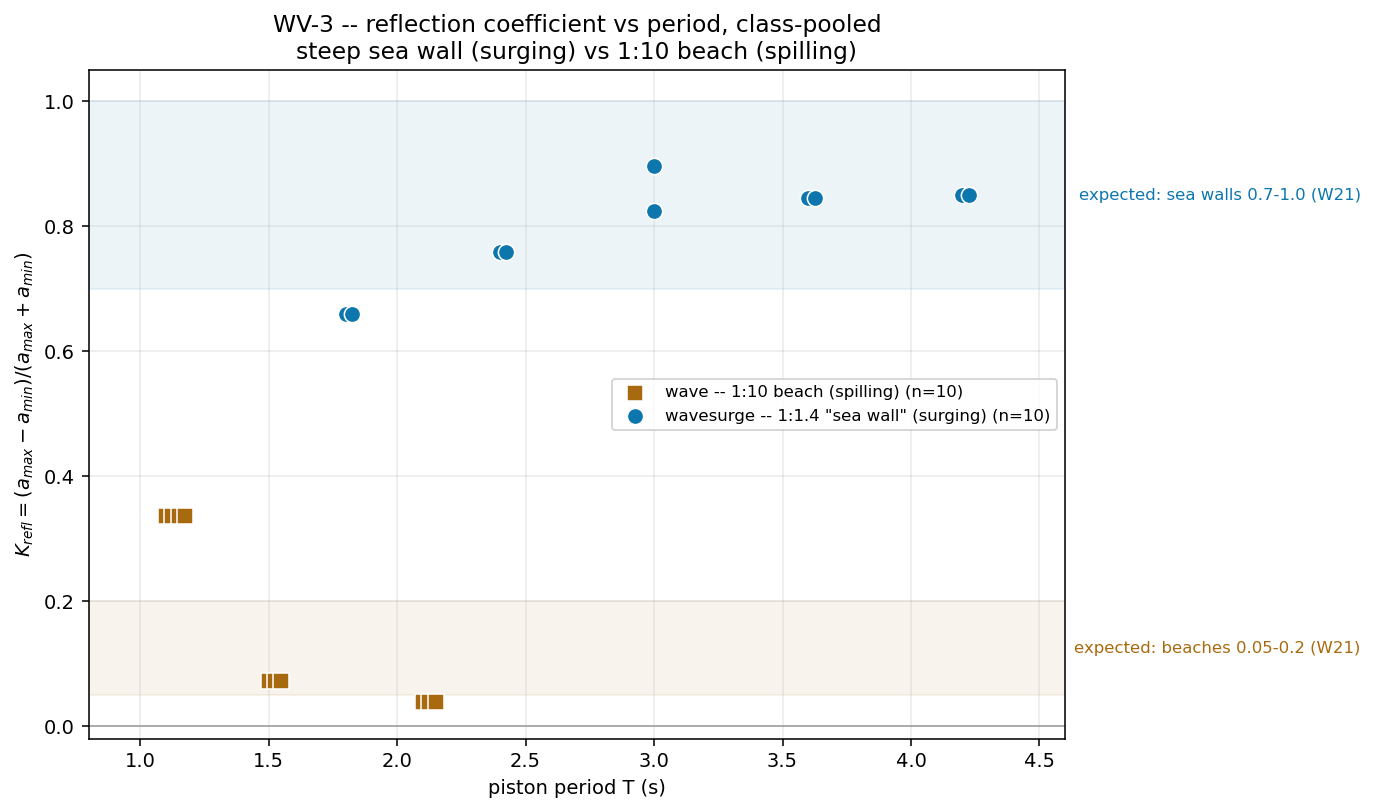
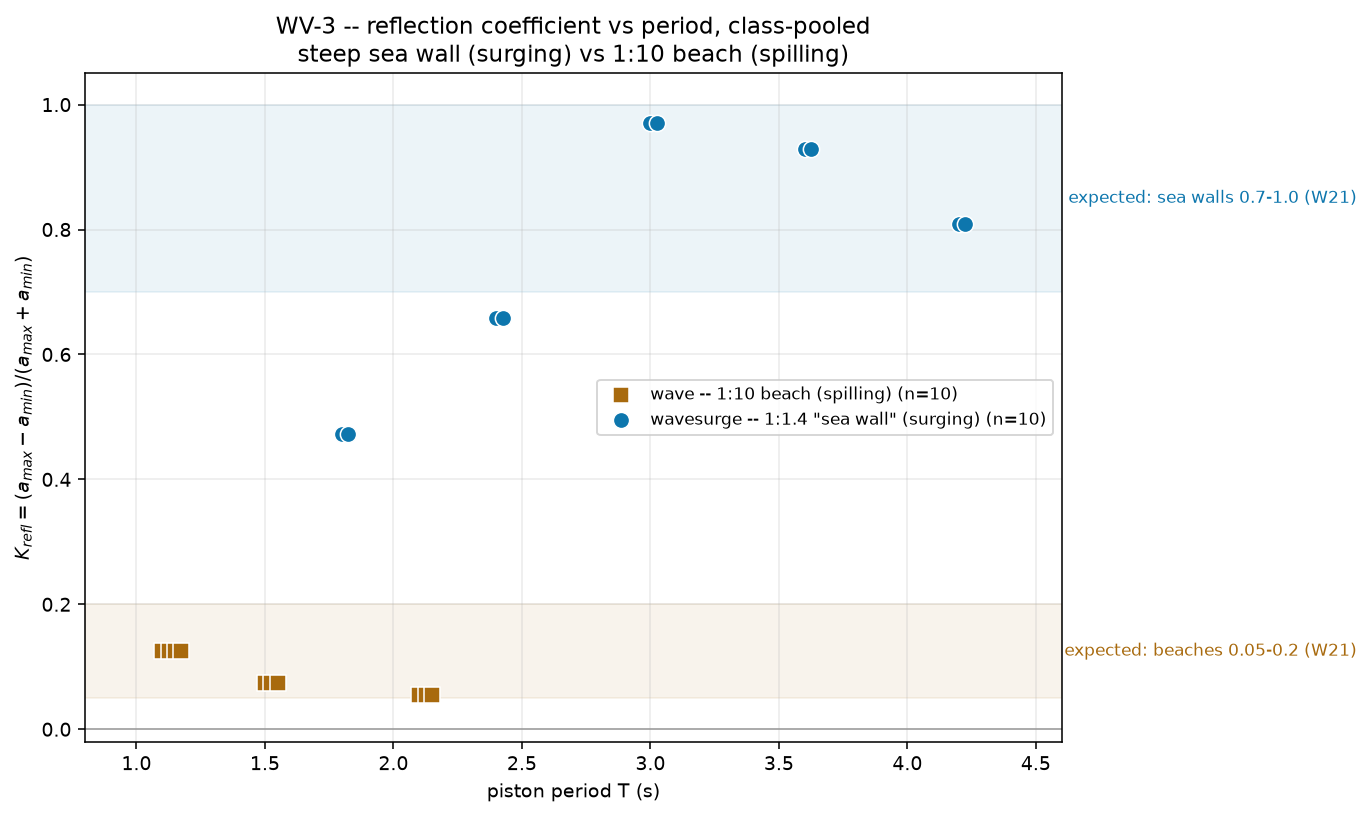
WV-3: re-measured with the closure off in the wave flumes (#2)
K_refl on wavesurge (DFT envelope scan) is now 0.47 / 0.66 / 0.97 / 0.93 /
0.81 at T = 1.8 / 2.4 / 3.0 / 3.6 / 4.2 s, against 0.66-0.90 with the
closure on. The nodes are deeper at 3.0 and 3.6 s; the 1.8 s row is
ragged. The contrast holds: every wavesurge K is above every wave K
(0.05-0.13). Node spacing matches L/2 to within the 0.2 m station step at
3.0-4.2 s. The closure-on rerun reproduces the old scan at 3.0 s (0.87).
CSV and pooled plot regenerated; the digit table is unchanged.

diff --git a/courses/original/exercises/WV-3-reflection/README.md b/courses/original/exercises/WV-3-reflection/README.md
@@ -3,7 +3,8 @@
 Every student slides one wave gauge along a flume that ends in a steep, smooth
 1:1.4 slope, reading the biggest (antinode) and smallest (node) swing the
 reflected wave leaves behind in its partial standing pattern. `K_refl` from
-those two numbers lands high — measured 0.66–0.90 across the class's periods —
+those two numbers lands high — measured 0.47–0.97 across the class's periods,
+most of them 0.8–0.97 —
 and that IS the textbook sea-wall figure, measured rather than assumed. A short
 second run on the gentle 1:10 beach, same water and same paddle, gives a low
 one by exactly the same method: the class has measured, not been told, why
@@ -64,6 +65,19 @@ as `series = spilling`. Its flat run is only x = 0.65–1.15 m, so step the gaug
 by 0.1 m across that — and the swing barely changing from one end to the other
 IS the result.
 
+> Re-measured Oct 2026 with the mixing-length closure off in the wave flumes
+> (mvreeuwijk/hydraulician#2). `K_refl` on `wavesurge` (DFT envelope scan, 33
+> stations, 10 periods) went 0.66 / 0.76 / 0.83–0.90 / 0.85 / 0.85 to
+> 0.47 / 0.66 / 0.97 / 0.93 / 0.81 at T = 1.8 / 2.4 / 3.0 / 3.6 / 4.2 s: the
+> nodes are deeper without eddy damping at 3.0 and 3.6 s, the 1.8 s row got
+> worse (a_min 0.014 m), and the old monotone trend is gone. A closure-on rerun
+> at 3.0 s gave 0.87 and at 1.8 s 0.60, within the old scatter. On `wave`
+> (two-probe) the closure-on rerun gave 0.18 / 0.02 / 0.15 and the closure-off
+> run 0.13 / 0.07 / 0.05 at T = 1.1 / 1.5 / 2.1 s; the old 0.34 / 0.07 / 0.04
+> was not reproduced at 1.1 s — two-probe K on this 0.9 m flat run moves by
+> ±0.1 with probe-amplitude mismatches of a few percent, so read it as "inside
+> the 0.05–0.2 beach band".
+
 ## For the instructor — pooling the class
 
 Collect one row per student (`student,digit,series,T_s,Krefl`, with `series`
@@ -82,15 +96,22 @@ own band.
 
 ### Discussion points
 
-- **Expect the submitted numbers to run low on `wavesurge`** — nearer 0.4–0.6
-  than the 0.85 this folder's own scans measure. A ~15 s peak-to-peak read
+- **Expect the submitted numbers to run low on `wavesurge`** — (closure-on
+  value, not re-measured: nearer 0.4–0.6 than the 0.85 this folder's own scans
+  measured.) A ~15 s peak-to-peak read
   cannot resolve the tiny true signal at a node against the ripple sitting on
   top of it, so `a_min` comes out roughly twice too big and drags `K_refl`
-  down. The contrast survives easily: even the worst eyeball reading clears
-  every spilling point.
+  down; with the closure off the true node is deeper still (`a_min` ≈ 0.001–0.002 m
+  at 3.0 and 3.6 s), so the eyeball shortfall is if anything larger. The
+  contrast survives: the scans give 0.47–0.97 on `wavesurge` against 0.05–0.13
+  on `wave`, and a ~0.4 eyeball reading still clears every spilling point.
 - **The standing pattern is a free check on WV-1.** Leave gauges at two
   neighbouring nodes and measure the gap with **Measure** (`8`): it should be
-  `L/2` from `σ² = gk tanh kh`, and here it is, to 1.7% across four periods. A
+  `L/2` from `σ² = gk tanh kh`, and here it is — to within the 0.2 m station step
+  (3.0, 3.6, 4.2 s: 2.8, 3.4, 3.8 m against 2.70, 3.27, 3.83 m; the 2.4 s row
+  reads 2.4 m against 2.13 m, and at 1.8 s the envelope is too ragged to name
+  two nodes — the old "1.7% across four periods" was a closure-on figure and is
+  not reproduced). A
   standing wave carries the dispersion relation in its own geometry.
 
 The full verification record — the probe-height and measuring-zone
